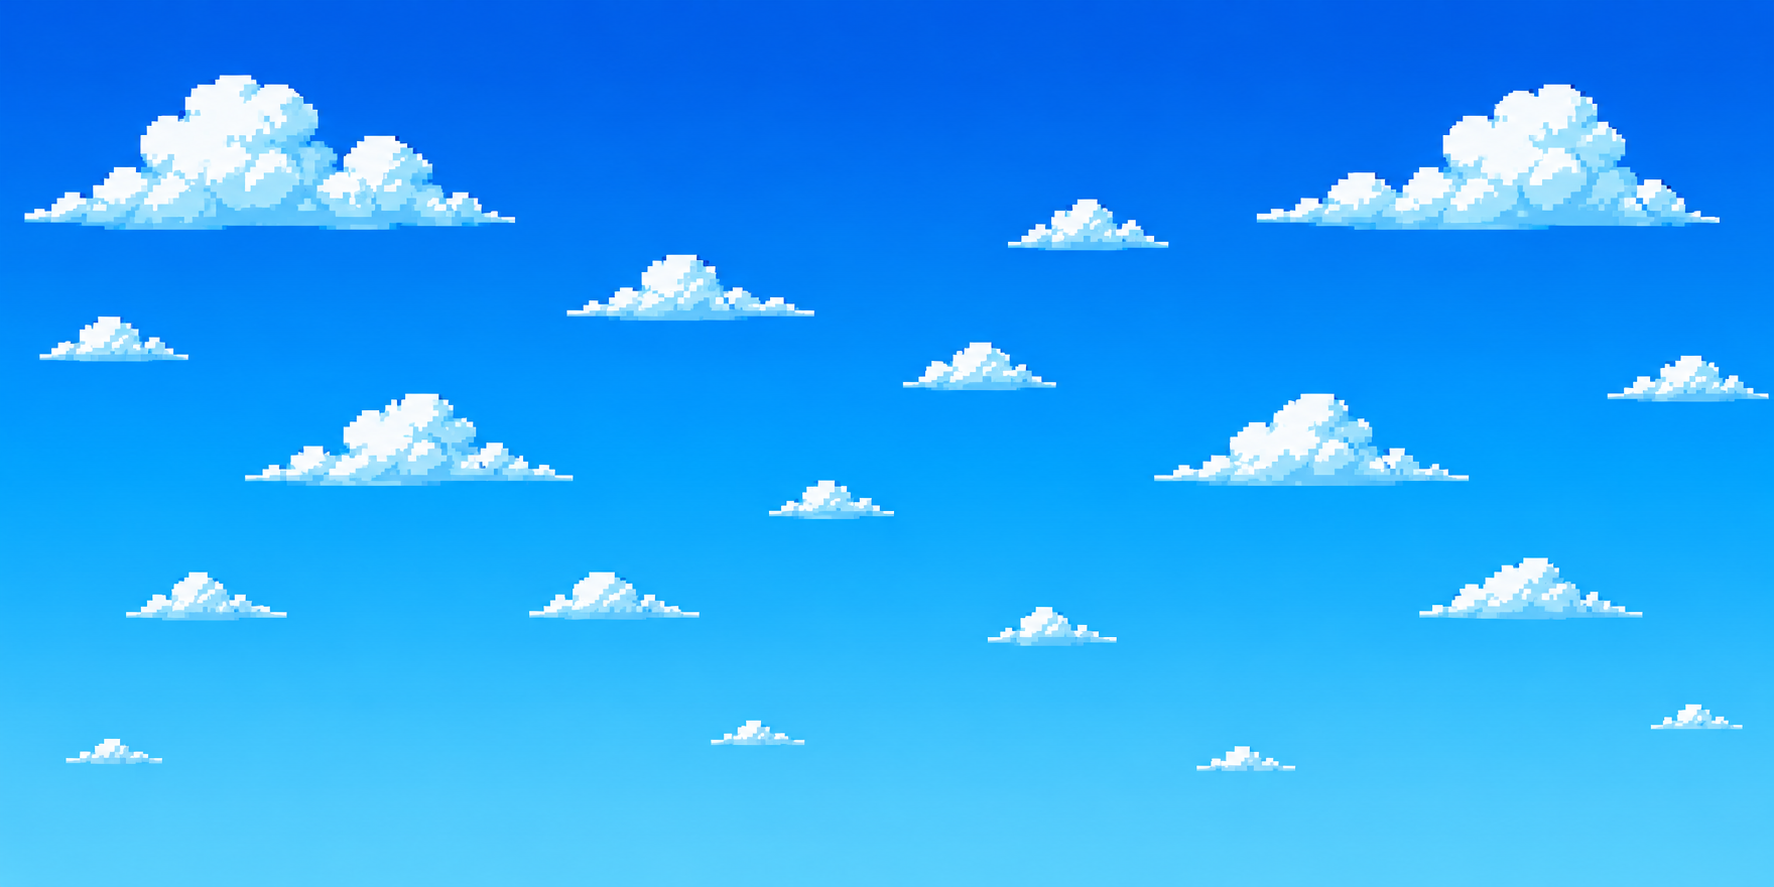
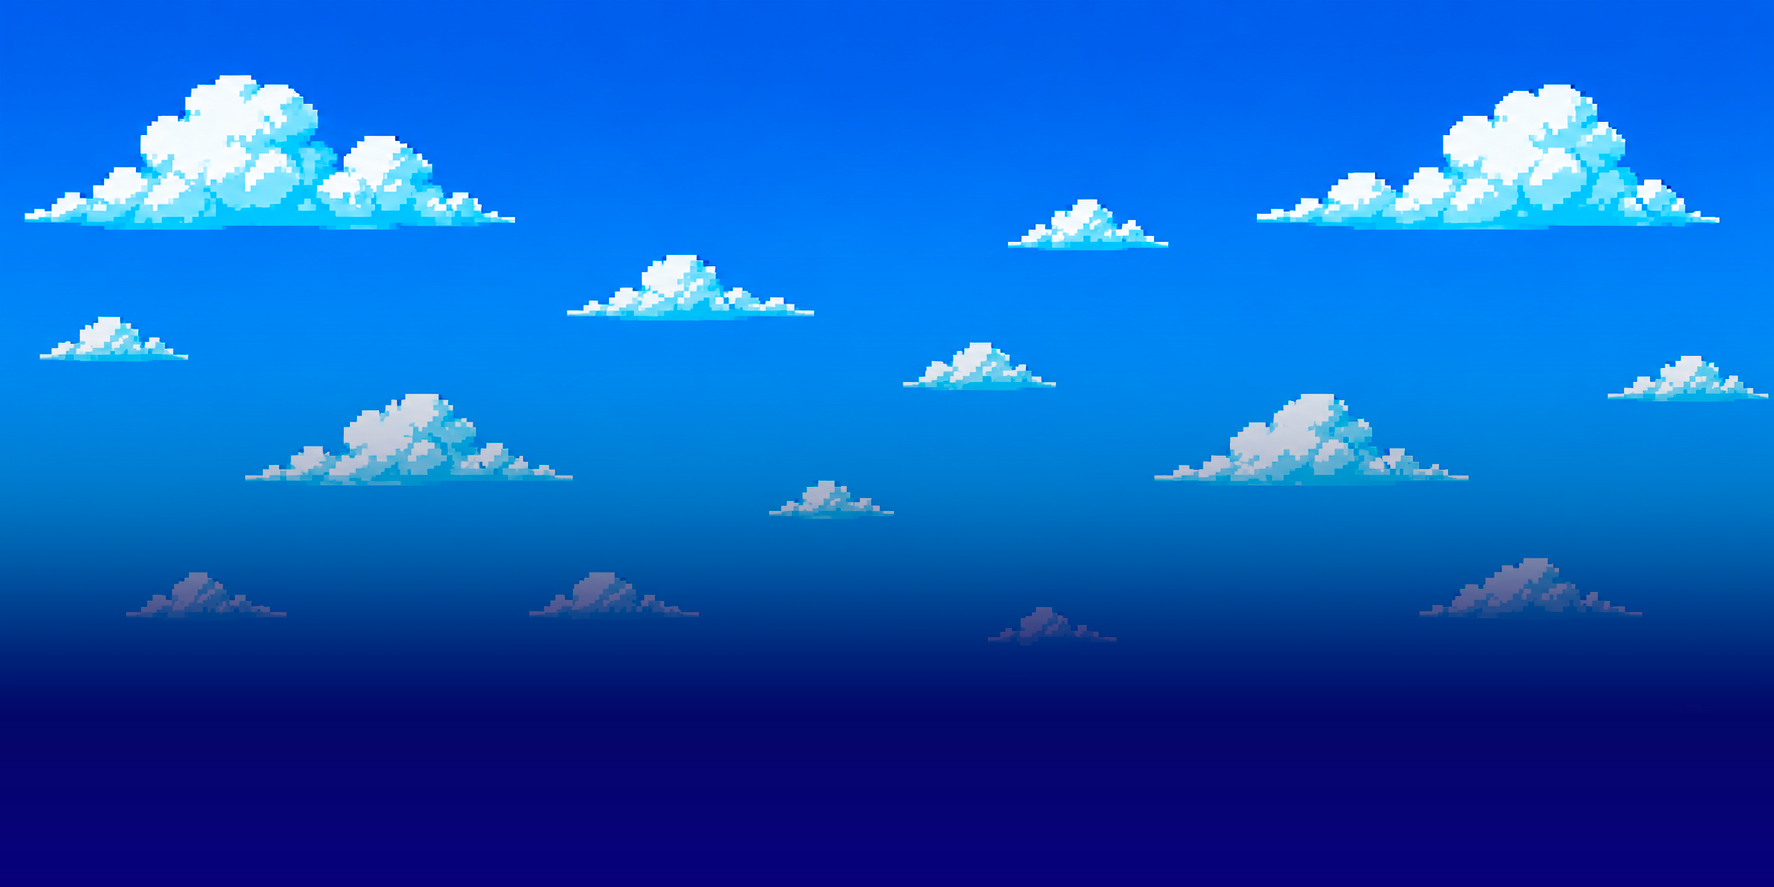
sssss

diff --git a/style.css b/style.css
@@ -12,7 +12,15 @@ body {
   background: #000;
 }
 
-body {
+/* CONTENEDOR */
+#game-container {
+  position: fixed;
+
+  top: 50%;
+  left: 50%;
+
+  transform: translate(-50%, -50%);
+
   display: flex;
   justify-content: center;
   align-items: center;
@@ -20,19 +28,14 @@ body {
 
 
 /* ==========================================
-   PC / CELULAR HORIZONTAL
+   JUEGO
    ========================================== */
 
 #game {
   display: block;
 
-  aspect-ratio: 16 / 9;
-
-  width: 100vw;
-  height: auto;
-
-  max-width: 100vw;
-  max-height: 100vh;
+  width: 100%;
+  height: 100%;
 
   image-rendering: pixelated;
   image-rendering: crisp-edges;
@@ -42,28 +45,47 @@ body {
 
 
 /* ==========================================
+   PC O CELULAR HORIZONTAL
+   ========================================== */
+
+@media (orientation: landscape) {
+
+  #game-container {
+
+    width: min(100vw, calc(100vh * 16 / 9));
+
+    height: min(
+      100vh,
+      calc(100vw * 9 / 16)
+    );
+
+  }
+
+}
+
+
+/* ==========================================
    CELULAR VERTICAL
    ========================================== */
 
 @media (orientation: portrait) {
 
-  #game {
-    position: fixed;
+  #game-container {
 
-    top: 50%;
-    left: 50%;
-
+    /* ANTES DE ROTAR */
     width: 100vh;
-    height: calc(100vh * 9 / 16);
 
-    max-width: none;
-    max-height: none;
+    height: calc(
+      100vh * 9 / 16
+    );
 
     transform:
       translate(-50%, -50%)
       rotate(90deg);
 
-    transform-origin: center center;
+    transform-origin:
+      center center;
+
   }
 
 }

diff --git a/index.html b/index.html
@@ -19,10 +19,11 @@
 
 <body>
 
-  <canvas id="game"></canvas>
+  <div id="game-container">
+    <canvas id="game"></canvas>
+  </div>
 
   <script src="game.js"></script>
 
 </body>
-
 </html>
